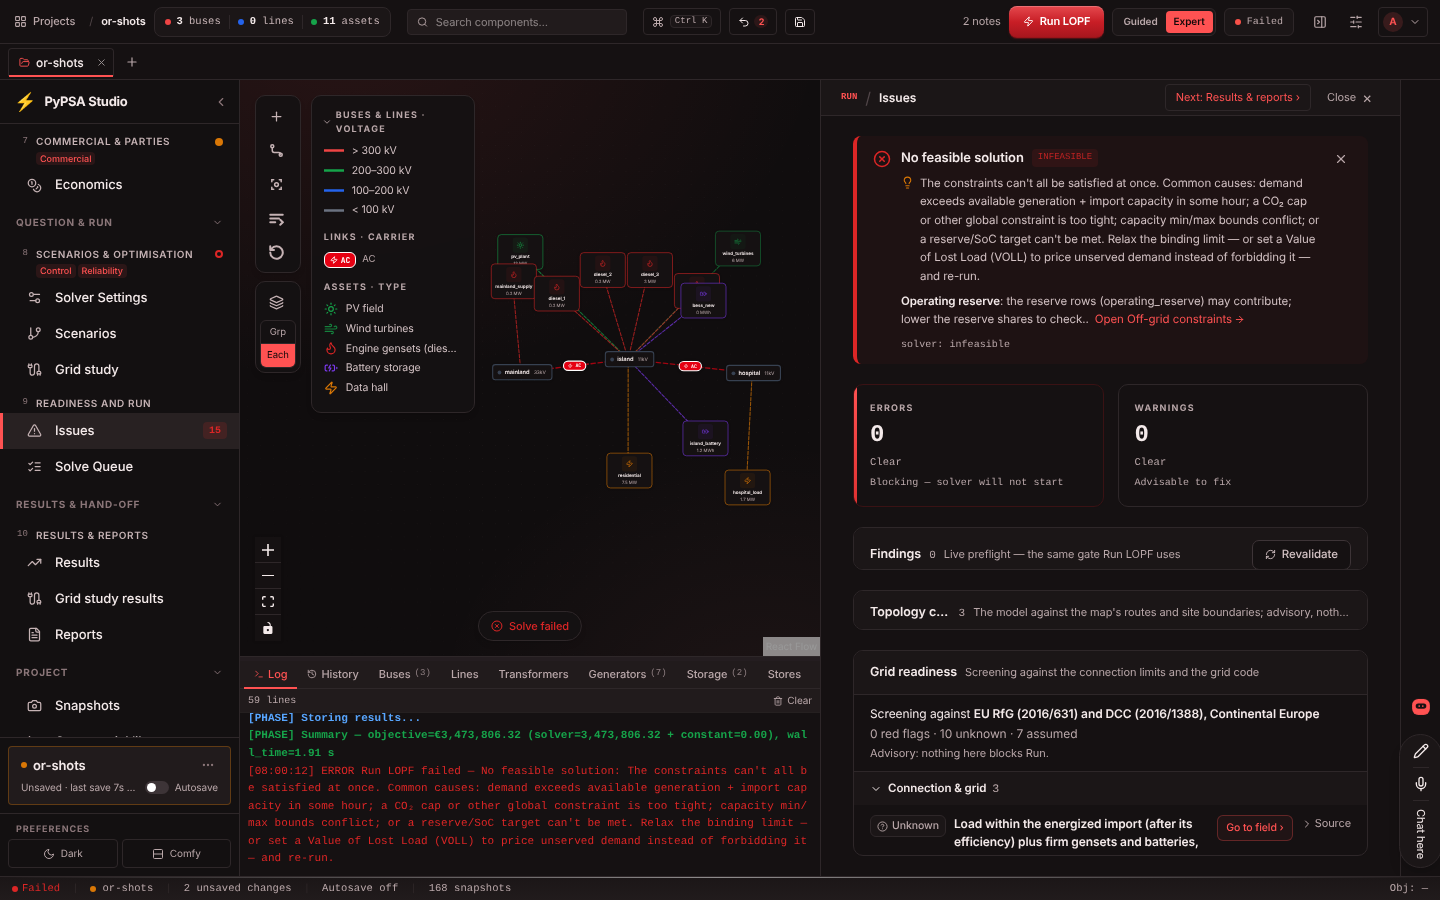
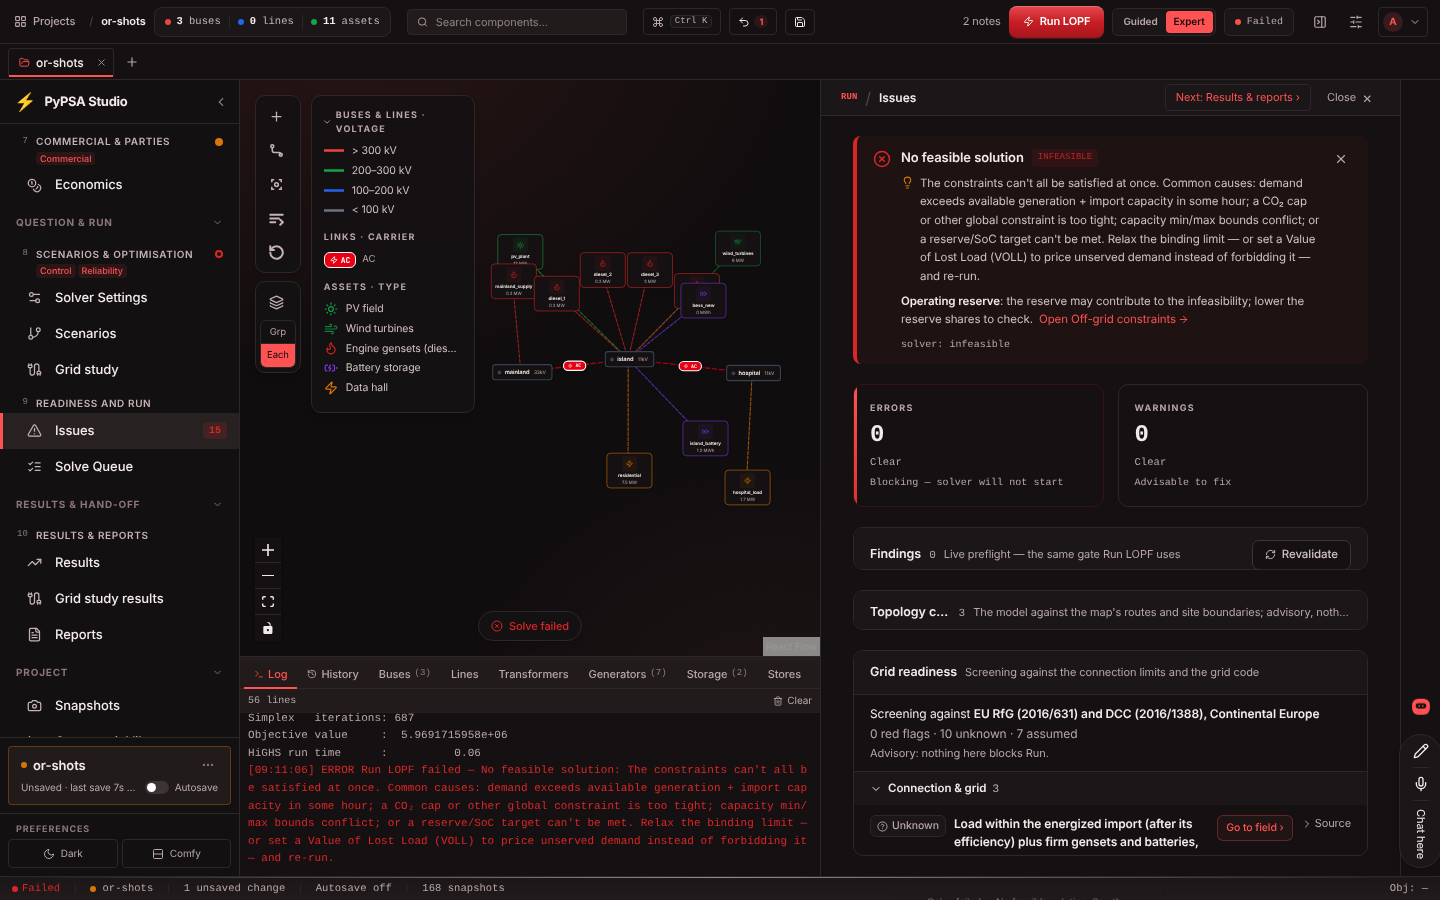
docs(gui): 01b-2 retake infeasible shots with the #1521 hint; issue 01 Status done
Claude-Session: https://claude.ai/code/session_01G7qCujC3hM5yiFgtq33zLm

diff --git a/.scratch/homer-parity/issues/01-offgrid-renewable-fraction-and-operating-reserve.md b/.scratch/homer-parity/issues/01-offgrid-renewable-fraction-and-operating-reserve.md
@@ -3,7 +3,7 @@
 
 # 01 — Off-grid constraints: minimum renewable fraction and operating reserve
 
-Status: in progress (01a done #1424; 01b-1 engine PR pending on claude/homer-01b-reserve, 01b-2 UI next)
+Status: done (01a #1424, 01b-1 engine #1521, 01b-2 UI #1522; follow-up 01c needs-triage)
 Model: Opus
 Reviewer: GK B (GK A only if the adequacy/IC engine is touched)
 Blocked by: none (40 is independent: it is about island frequency screens, not these constraints)
